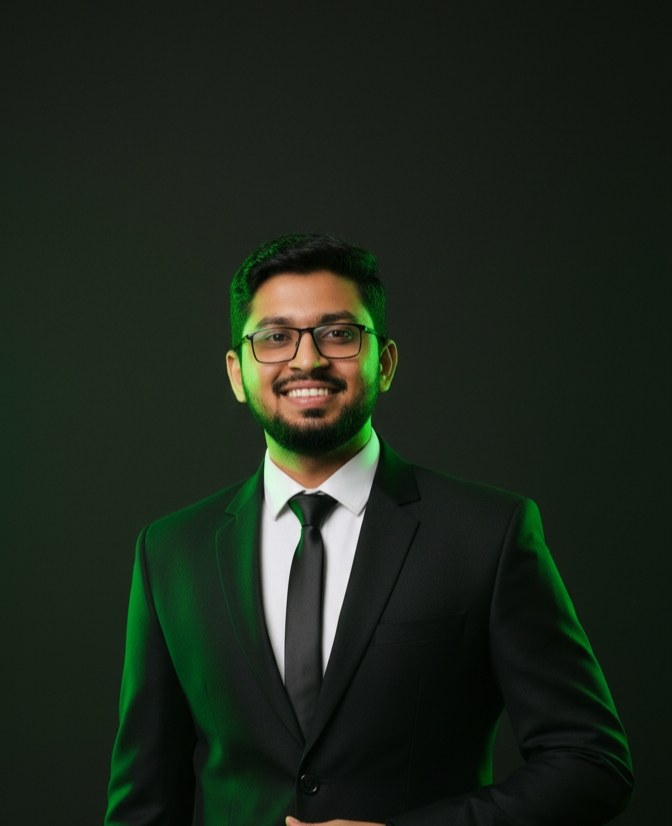
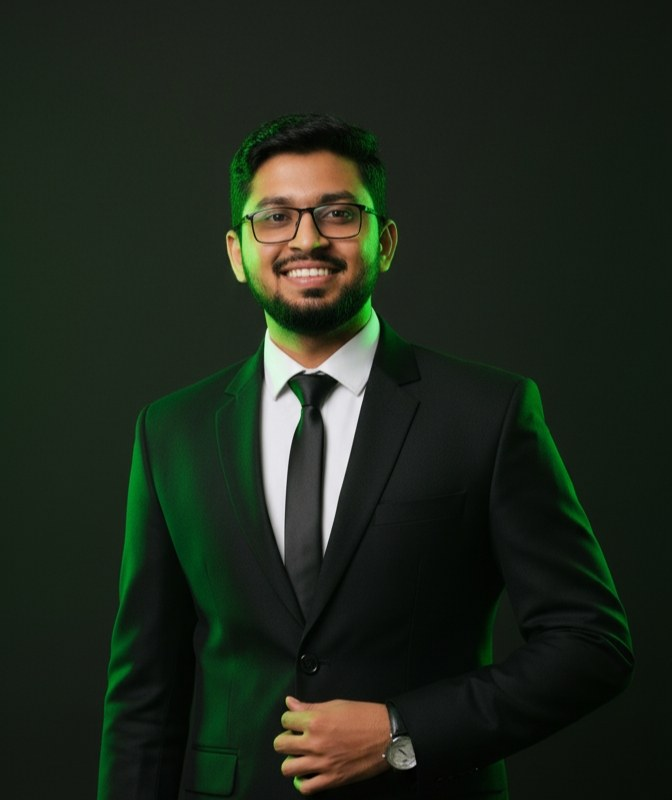
Fix hero backdrop disappearing + tighten founder photo crop
Hero: add 'isolate' to the section element so the -z-10 backdrop layers
(bg-gray-900, gradient, animated orbs, grid) stay inside the section's
stacking context. Without isolation they were falling behind the white
bg-background ancestor wrapper, which is why the dark gradient vanished
and 'Upsell' / 'to your eCommerce clients,' / the sub paragraph rendered
white-on-white.

Founder photo: re-crop tighter from the top — skip 120px of dark space
above the head and end around the hands at y=920. New crop is 672x800
(43 KB) so Hammad's head sits near the top of the frame instead of
floating in the middle of empty negative space.

diff --git a/frontend/src/pages/WhiteLabelGoogleAds.tsx b/frontend/src/pages/WhiteLabelGoogleAds.tsx
@@ -188,7 +188,7 @@ const WhiteLabelGoogleAds = () => {
 
       <div className="min-h-screen bg-background">
         {/* ===================== HERO ===================== */}
-        <section className="relative overflow-hidden py-16 md:py-24 px-4 sm:px-6 lg:px-8">
+        <section className="relative isolate overflow-hidden py-16 md:py-24 px-4 sm:px-6 lg:px-8">
           {/* Backdrop layers */}
           <div className="absolute inset-0 -z-10">
             <div className="absolute inset-0 bg-gray-900" />
